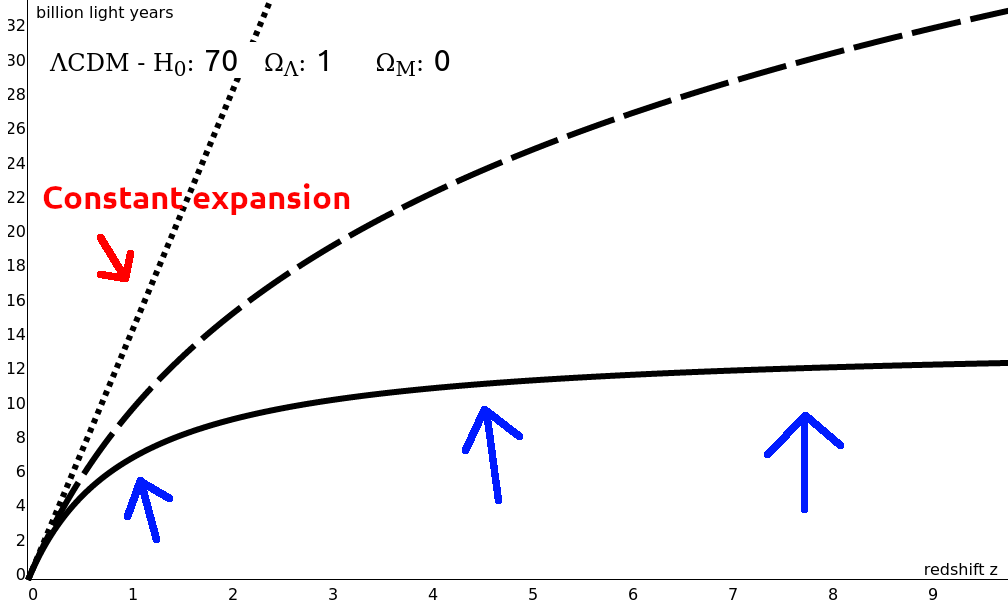
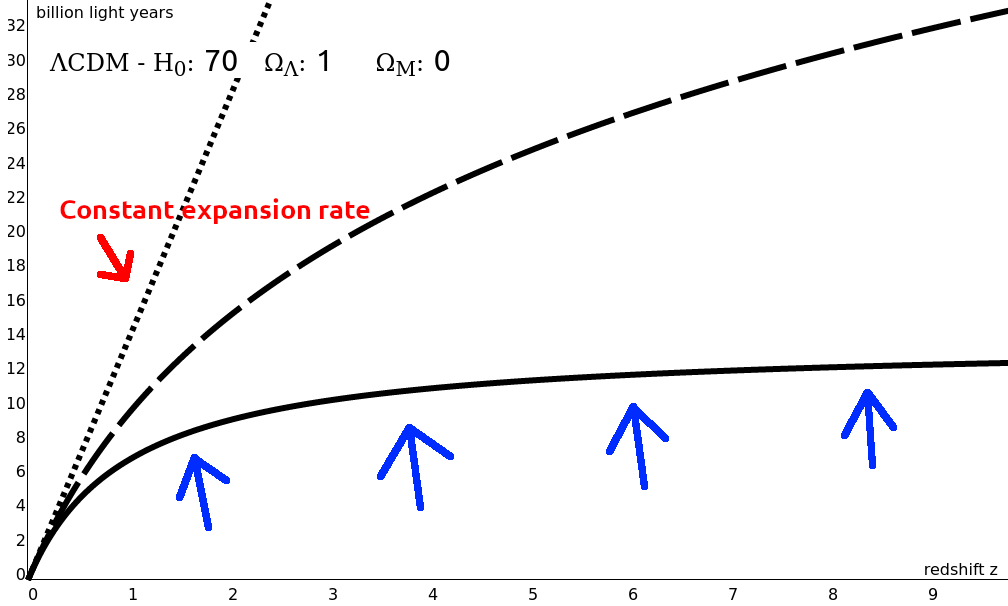
notebook

diff --git a/other/flrw.js b/other/flrw.js
@@ -1,8 +1,51 @@
-function lcdm(H0, maxZ) {
-    return flrw(H0, 0.7, 0.3, maxZ)
+// returns distances in million light years
+//   d_C = comoving distance 
+//   d_A = angular diameter distance 
+//   d_T = light travel time distance
+
+function flrwz(H0, OmegaL, maxZ) {
+
+    maxZ = maxZ || 10
+    var OmegaM = 1 - OmegaL
+
+    // convert km/s/Mpc  to  Mly/My/Mly
+    H0 = H0 / 3.08e19 * 60 * 60 * 24 * 365 * 1e6
+    var H = H0 
+    var c = 1
+
+    var t = 0
+    var z = 0
+
+    // these are our photons, one has a head start
+    var x1 = 0.1
+    var x2 = 0
+
+    while (z < maxZ) {
+
+        // move the photons with the hubble flow (in reverse)
+        x1 += c - H * x1
+        x2 += c - H * x2
+
+        // the redshift is how far apart the photons have drifted
+        z = 0.1 / (x1 - x2) - 1
+
+        t--
+        
+        // update the Hubble parameter
+        H = H0 * Math.sqrt(OmegaM * Math.pow(1 + z, 3) + OmegaL)
+
+    }
+
+    return {
+        z,
+        d_A: x2,
+        d_C: x2 * (1+z),
+        d_T: -t, 
+    }
 }
 
 
+//this version returns an array for all data points up to maxZ
 
 function flrw2(H0, OmegaL, maxZ) {
 
@@ -55,16 +98,8 @@ function flrw2(H0, OmegaL, maxZ) {
 
 
 
-// Imagine an observer at the source with incoming photons
-// run the expansion of the universe backwards
-// when the photons reach a distant galaxy in the model
-// that would be the state of the universe when the photons 
-// were emitted
+// this version keeps tracks of galaxies so you can plot their worldlines
 
-// returns distances in million light years
-//   d_C = comoving distance 
-//   d_A = angular diameter distance 
-//   d_T = light travel time distance
 
 function flrw(H0, OmegaL, OmegaM, maxZ) {
     maxZ = maxZ || 10

diff --git a/nonexpanding/ep4/ep4.htm b/nonexpanding/ep4/ep4.htm
@@ -148,7 +148,7 @@
 
         <img  id="distancenames" src="flrwgraph2.png">
         <br>
-        <h3 class="fi">\(z \approx 1.5 \)</h3>
+        <h3 class="fi">\(z \approx 1.6 \)</h3>
         <h class="fi">recession velocity is \(c\) (at \(t_{emit} \))</h>
         
         <p class="fi">photon "stalled" until expansion rate decreases</p>
@@ -171,33 +171,36 @@
         <h3 style="color: #888888;">Objects of the same size and color at different distances</h3>
         <div class="slide1" style="justify-content: center;">
             <div>
-                <img src="addt1.png">
+                <img width="300" src="addt1.png">
                 <br>
                 \( z=0.4 \)
             
             </div>
-            <div>
-                <img src="addt2.png">
+            <div class="fi">
+                <img width="300" src="addt2.png">
                 <br>
                 \( z=0.9 \)
             </div>
-            <div>
-                <img src="addt3.png">
+            <div class="fi">
+                <img width="300" src="addt3.png">
                 <br>
                 \( z=1.5 \)
             </div>
-            <div>
-                <img src="addt4.png">
+            <div class="fi">
+                <img width="300" src="addt4.png">
                 <br>
                 \( z=2.7 \)
             </div>
-            <div>
-                <img src="addt5.png">
+            <div class="fi">
+                <img width="300" src="addt5.png">
                 <br>
                 \( z=7 \)
             </div>
             
+            
         </div>
+        <br><br><br>
+        <p class="fi"><i>With distance, objects appear smaller, then larger, but always redder</i></p>
     </div>
 
 
